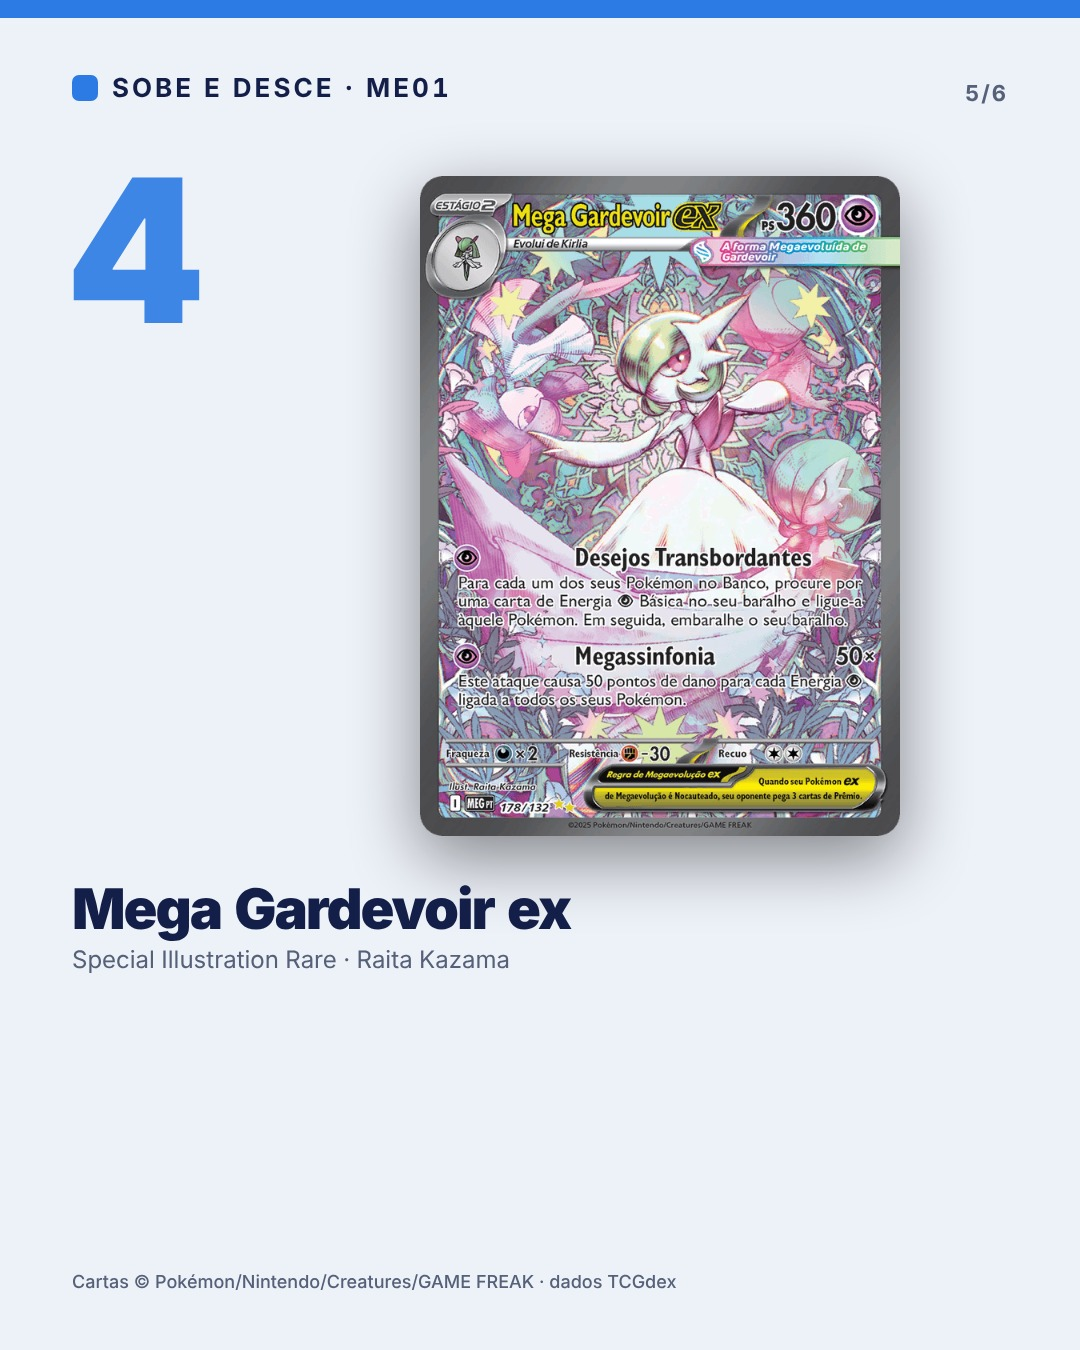
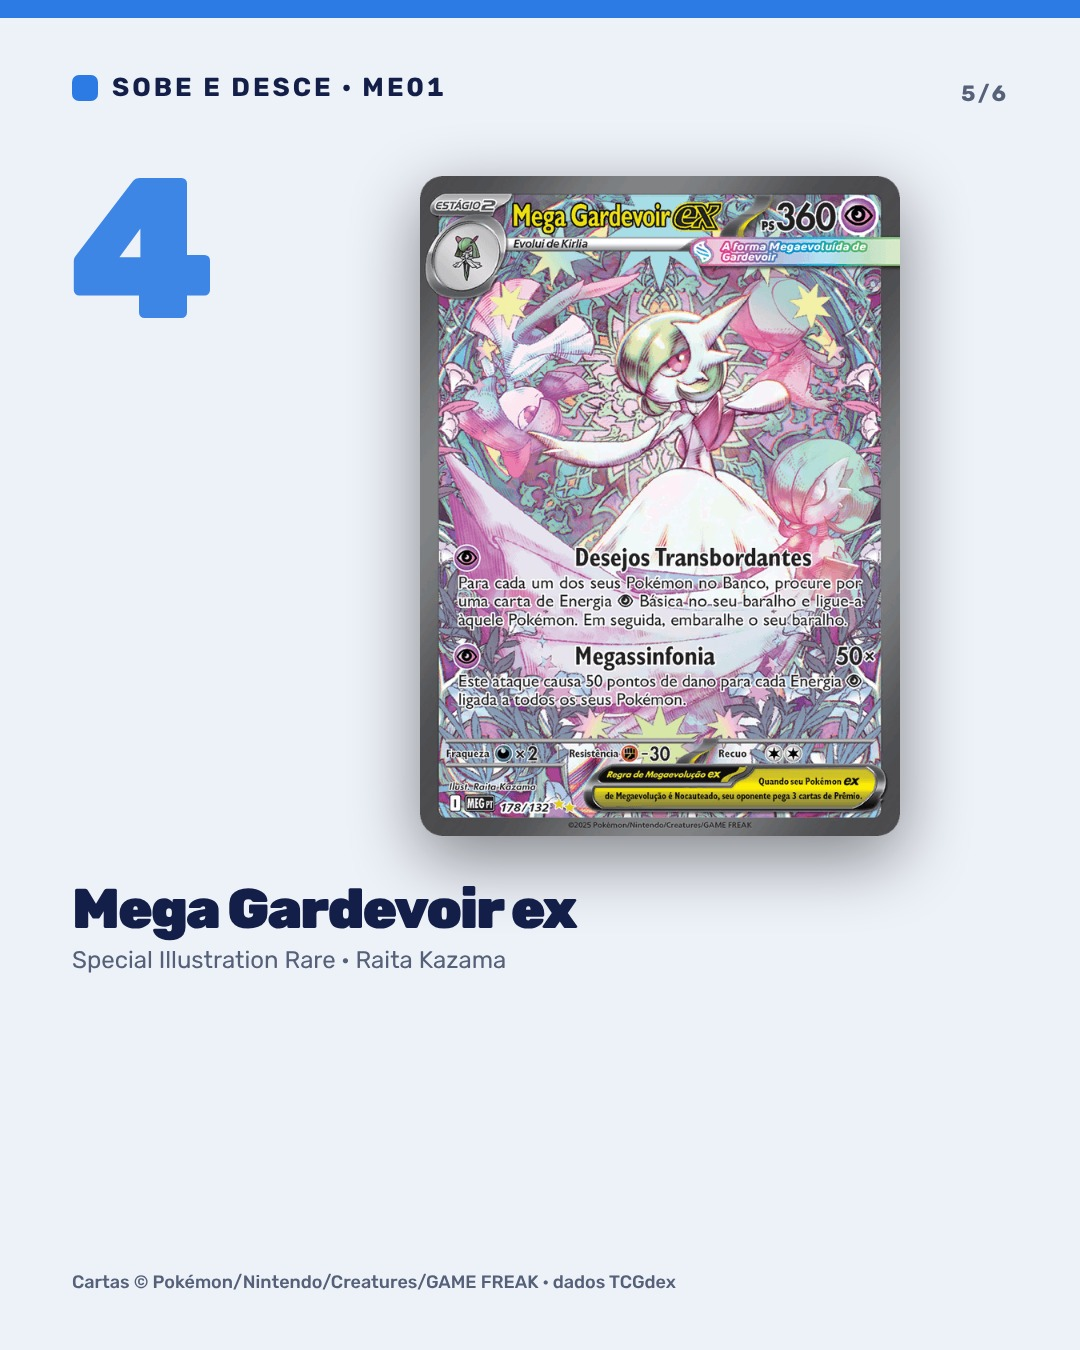
feat(social): semana 2 agendável e reenvio da semana 1 com a fonte Rubik
As artes saíam com fonte substituta (o export não alcança o Google Fonts); agora usam
assets/web/rubik-v1.woff2. Semana 1 reexportada e com cancelar+reagendar de tudo (CTA do
grupo do WhatsApp). Semana 2 (26/10–01/11): 6 posts editoriais sem preço de oferta e 3
vídeos pendentes. Idempotência passa a considerar legenda e mídia.

Claude-Session: https://claude.ai/code/session_013woWWzrFgSqdAQgd7ruatS

diff --git a/test/social-agenda-tests.js b/test/social-agenda-tests.js
@@ -5,6 +5,14 @@ import { join } from 'node:path';
 import { validarItem, montarPost, criarCliente, FUSO } from '../src/agents/social/zernio.js';
 
 const ag = JSON.parse(readFileSync('config/social/agenda/semana1.json', 'utf8'));
+for (const sem of ['semana1', 'semana2']) {
+  const g = JSON.parse(readFileSync(`config/social/agenda/${sem}.json`, 'utf8'));
+  for (const it of g.itens) {
+    assert.deepEqual(validarItem(it), [], `${it.id}: ${validarItem(it).join('; ')}`);
+    for (const a of it.arquivos ?? []) assert.ok(existsSync(join(g.pasta, a)), `${it.id}: falta ${a}`);
+    if (it.legenda && !it.plataformas.includes('tiktok')) assert.match(it.legenda, /grupo do WhatsApp/, `${it.id}: CTA do Zap`);
+  }
+}
 for (const it of ag.itens) {
   assert.deepEqual(validarItem(it), [], `${it.id}: ${validarItem(it).join('; ')}`);
   for (const a of it.arquivos ?? []) assert.ok(existsSync(join(ag.pasta, a)), `${it.id}: falta ${a}`);
